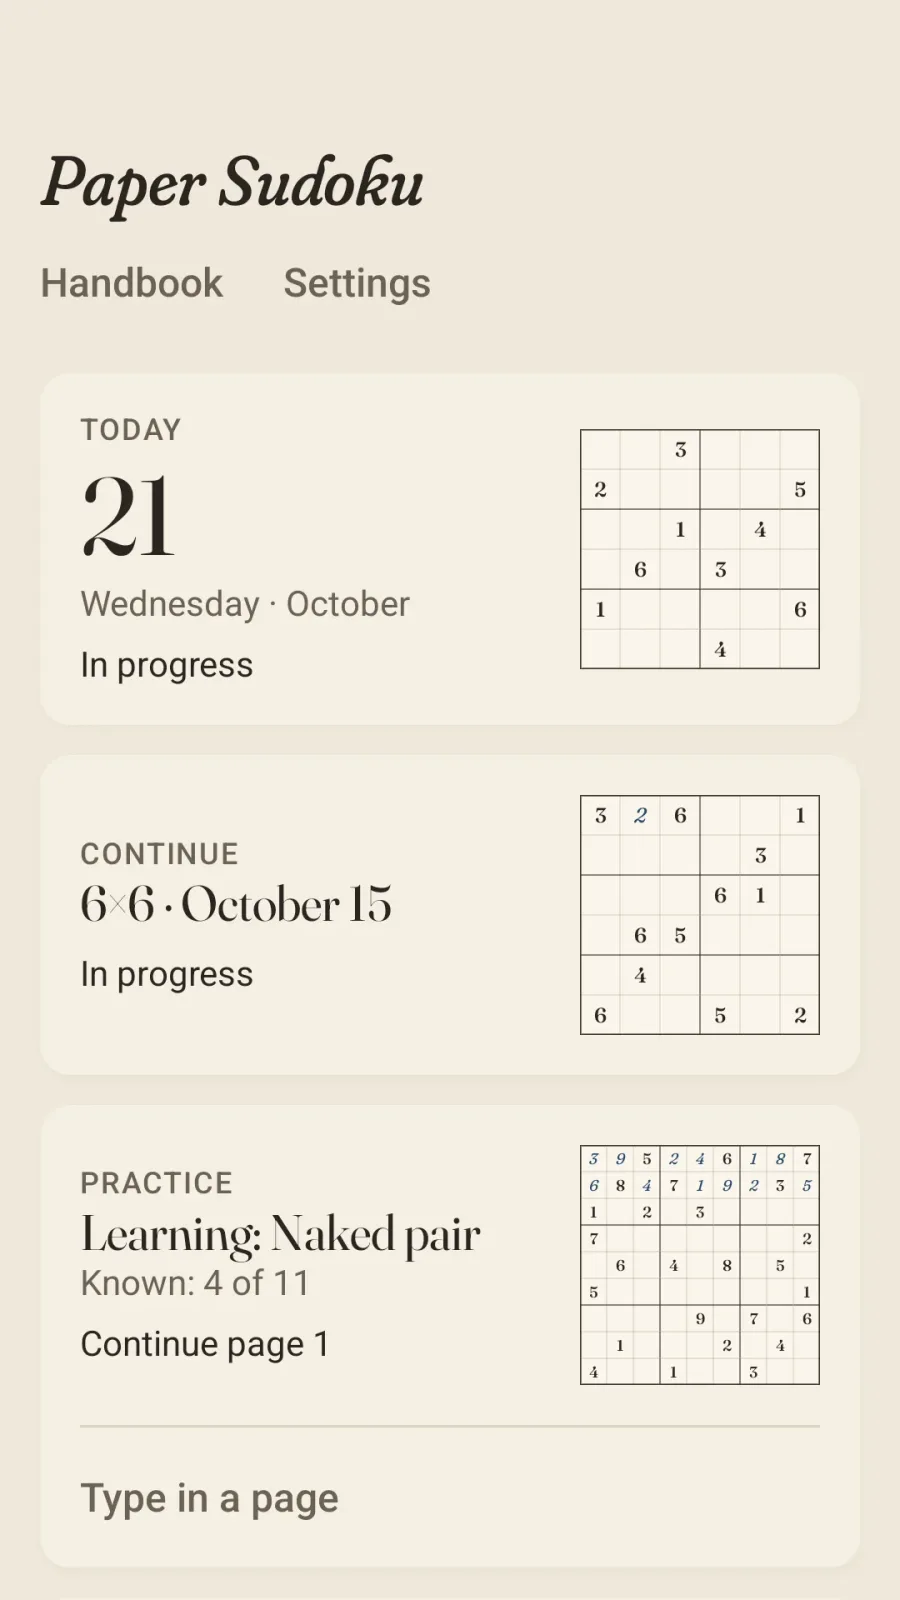
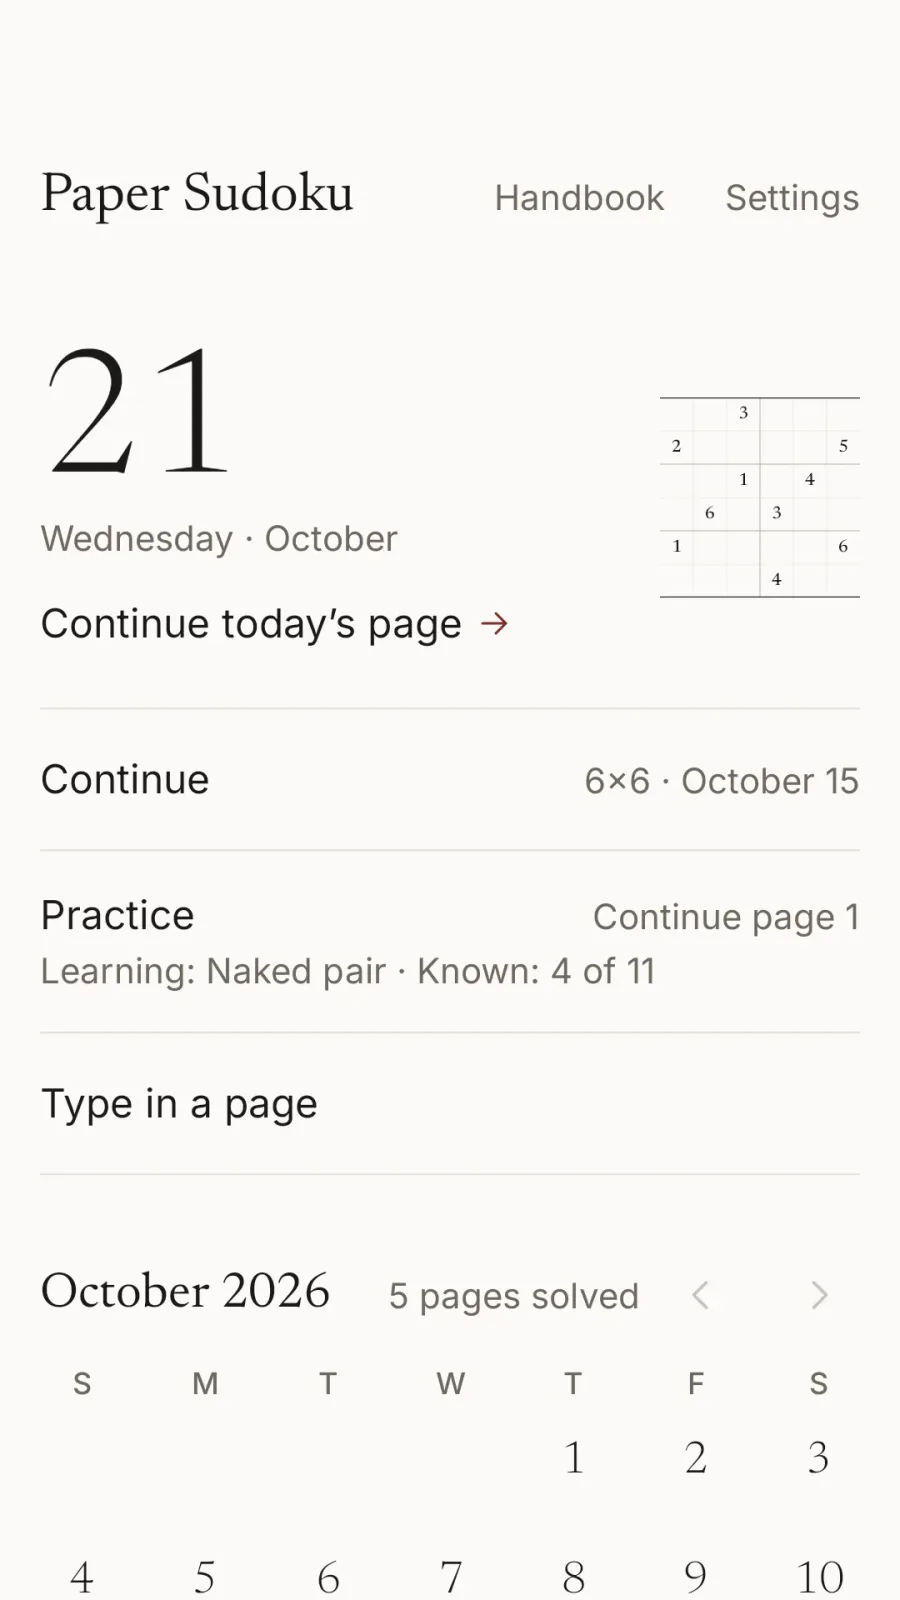
Paper Sudoku 14.0: meta line, plainer words, 14.0 captures (#219)
Facts from the app's CHANGELOG 14.0.0, README and store listing: the meta
line says 14.0, "your ink" becomes "your own digits", and the notebook's
alt text no longer counts stamped pages. The Coach, notebook and handbook
showcases are the 14.0 StoreScreenshotsTest captures (docs/store/) in
English and the 14.0 zh-* screenshot-matrix captures in Chinese, with
asOf v14.0.0-sideload; the FAQ answers were rechecked against 14.0. The
tablet hero stays the 13.0 capture: 14.0 has no tablet capture at Play's
size. The unreferenced solved-page image is removed.

Claude-Session: https://claude.ai/code/session_01JmaFxrCaTr7J8dy17sm4dB

diff --git a/src/content/products/paper-sudoku.ts b/src/content/products/paper-sudoku.ts
@@ -3,10 +3,13 @@ import { defineProduct } from "../schema";
 // The app's repository is private and it is not on Google Play yet, so there is
 // no download link and no `repo` for releases:sync: the version is written in
 // the meta line, and the primary action stays an unlinked "coming" label until
-// the Play listing exists. Facts: the app's README, CHANGELOG (13.0.0), PRIVACY.md
-// and docs/store-listing.md. Pictures: the app's own StoreScreenshotsTest at Play's
-// sizes, from the 13.0 captures (English UI only). No `asOf`: check ties it to a
-// releases.json entry, which a product without `repo` does not have.
+// the Play listing exists. Facts: the app's README, CHANGELOG (14.0.0), PRIVACY.md
+// and docs/store-listing.md. Pictures: the 14.0 captures of the app's own
+// StoreScreenshotsTest at Play's sizes (docs/store/, English UI), and for the
+// Chinese showcases its screenshot-matrix captures (app/src/androidTest/screenshots/
+// zh-*.png, 540×1200). The tablet hero stays the 13.0 capture: 14.0 did not redraw
+// docs/store/7-tablet.png (older than 13.0) and has no tablet capture at Play's size. `asOf`
+// names the tag a capture or answer describes; check compares it with the meta line.
 export default defineProduct({
   slug: "paper-sudoku",
   line: "games",
@@ -49,14 +52,14 @@ export default defineProduct({
         href: "/paper-sudoku/privacy/",
       },
     },
-    meta: "Android 8.0+ · 13.0 · Phones and tablets · No network permission",
+    meta: "Android 8.0+ · 14.0 · Phones and tablets · No network permission",
     visual: {
       kind: "screenshot",
       label: "Paper Sudoku",
       frame: "wide",
       image: {
         src: "/assets/paper-sudoku-tablet.webp",
-        alt: "Paper Sudoku on a tablet: a 9×9 practice page on the left with printed digits, blue ink and pencil marks; on the right the page title, the line “Tap cells to write 4. Tap 4 again to put it down.”, Undo, Pencil and Coach, and the digit keys with 4 picked up",
+        alt: "Paper Sudoku on a tablet: a 9×9 practice page on the left with printed digits, digits written in blue and pencil marks; on the right the page title, the line “Tap cells to write 4. Tap 4 again to put it down.”, Undo, Pencil and Coach, and the digit keys with 4 picked up",
         width: 1080,
         height: 608,
       },
@@ -66,40 +69,40 @@ export default defineProduct({
     showcases: [
       {
         src: "/assets/paper-sudoku-coach.webp",
-        alt: "A 6×6 daily page for Wednesday, October 21: the Coach has outlined the top-right box in terracotta, and its note above the tools reads “Hidden single. Look at the top-right box.”",
+        alt: "A 6×6 daily page for Wednesday, October 21: the Coach has outlined the top-right box in oxblood, and its note above the tools reads “Hidden single. Look at the top-right box.”",
         width: 1080,
         height: 1920,
         title: "The Coach writes in the margin.",
         body: "Look, then Why, and the answer only if you ask.",
-        caption: "Screenshot test, 13.0",
-        asOf: "v13.0.0-sideload",
+        caption: "Screenshot test, 14.0",
+        asOf: "v14.0.0-sideload",
       },
       {
         src: "/assets/paper-sudoku-notebook.webp",
-        alt: "The notebook: Today, the 21st, in progress; a 6×6 page from October 15 to continue; and Practice, “Learning: Naked pair · Known: 4 of 11”, each card with a thumbnail of its page",
+        alt: "The notebook: today’s date, 21, set large beside a thumbnail of its page and “Continue today’s page”; then rows for Continue (a 6×6 from October 15), Practice (“Learning: Naked pair · Known: 4 of 11”) and Type in a page, divided by hairlines; below, the October 2026 calendar, 5 pages solved",
         width: 1080,
         height: 1920,
         title: "Every day stays in the notebook.",
         body: "Today’s page is on top: a 6×6 on weekdays, a 9×9 at the weekend.",
-        caption: "Screenshot test, 13.0",
-        asOf: "v13.0.0-sideload",
+        caption: "Screenshot test, 14.0",
+        asOf: "v14.0.0-sideload",
       },
       {
         src: "/assets/paper-sudoku-handbook.webp",
-        alt: "The handbook’s X-Wing page, 7 of 11: a 9×9 example with two rows and two columns outlined in terracotta, crossed-out candidates, and “Seen” under the board",
+        alt: "The handbook’s X-Wing page, 7 of 11: a 9×9 example with two rows and two columns outlined in oxblood, crossed-out candidates, and “Seen” under the board",
         width: 1080,
         height: 1920,
         title: "A handbook that teaches.",
         body: "Every technique with a worked example from a real page, drawn the way the Coach draws it, and how well you know it: seen, practised, known.",
-        caption: "Screenshot test, 13.0",
-        asOf: "v13.0.0-sideload",
+        caption: "Screenshot test, 14.0",
+        asOf: "v14.0.0-sideload",
       },
     ],
     sections: [
       {
         kind: "cards",
         id: "features",
-        label: "Printed digits, your ink, pencil notes.",
+        label: "Printed digits, your own digits, pencil notes.",
         items: [
           { title: "A path that knows you", body: "9×9 pages that get harder after three solved unaided." },
           { title: "Pages of your own", body: "Type in a puzzle from a book; it is checked and coached." },
@@ -127,7 +130,7 @@ export default defineProduct({
           {
             title: "What does it need?",
             body: "Android 8.0 or later, on a phone, a tablet or a foldable. On a wide screen the notebook and the open page sit side by side. It works offline.",
-            asOf: "v13.0.0-sideload",
+            asOf: "v14.0.0-sideload",
           },
           {
             title: "Where can I get it?",
@@ -136,17 +139,17 @@ export default defineProduct({
           {
             title: "Will a new build update the one I have?",
             body: "From 9.0, sideload builds can be signed with one fixed key, so later builds update in place. Moving from an earlier build needs one last uninstall.",
-            asOf: "v13.0.0-sideload",
+            asOf: "v14.0.0-sideload",
           },
           {
             title: "Which languages does it speak?",
             body: "English, Simplified Chinese and Traditional Chinese. On Android 13 and later, the app’s language can be set in its Settings.",
-            asOf: "v13.0.0-sideload",
+            asOf: "v14.0.0-sideload",
           },
           {
             title: "Does it work with TalkBack and a keyboard?",
             body: "Yes. With TalkBack each cell can be written or erased from the cell itself, and the keys come straight after the board; a hardware keyboard writes digits too.",
-            asOf: "v13.0.0-sideload",
+            asOf: "v14.0.0-sideload",
           },
         ],
       },
@@ -180,14 +183,14 @@ export default defineProduct({
         href: "/zh/paper-sudoku/privacy/",
       },
     },
-    meta: "Android 8.0+ · 13.0 · 手机与平板 · 不申请联网权限",
+    meta: "Android 8.0+ · 14.0 · 手机与平板 · 不申请联网权限",
     visual: {
       kind: "screenshot",
       label: "纸上数独",
       frame: "wide",
       image: {
         src: "/assets/paper-sudoku-tablet.webp",
-        alt: "纸上数独在平板上（英文界面）：左边是一页 9×9 练习，有印刷数字、蓝色笔迹和铅笔标记；右边是页面标题、提示“点格子写 4，再点 4 放下”、撤销、铅笔和教练按钮，以及选中 4 的数字键",
+        alt: "纸上数独在平板上（英文界面）：左边是一页 9×9 练习，有印刷数字、用蓝色写下的数字和铅笔标记；右边是页面标题、提示“点格子写 4，再点 4 放下”、撤销、铅笔和教练按钮，以及选中 4 的数字键",
         width: 1080,
         height: 608,
       },
@@ -197,40 +200,40 @@ export default defineProduct({
     showcases: [
       {
         src: "/assets/paper-sudoku-coach-zh.webp",
-        alt: "10 月 21 日星期三的 6×6 每日一页：教练用赭红色框出右上宫，工具上方的提示写着“隐性唯一 · 看看右上宫”，说明 3 在右上宫只能放在一格，旁边是“看答案”",
+        alt: "10 月 21 日星期三的 6×6 每日一页：教练用暗红色框出右上宫，工具上方的提示写着“隐性唯一 · 看看右上宫”，说明 3 在右上宫只能放在一格，下面是“看答案”",
         width: 540,
         height: 1200,
         title: "教练在页边写字",
         body: "先说看哪里，再说为什么，你要了才给答案。",
-        caption: "截图测试 · 13.0",
-        asOf: "v13.0.0-sideload",
+        caption: "截图测试 · 14.0",
+        asOf: "v14.0.0-sideload",
       },
       {
         src: "/assets/paper-sudoku-notebook-zh.webp",
-        alt: "数独本首页：今天 21 日，进行中；接着做 10 月 15 日的 6×6；练习卡写着“正在学：显性数对，已掌握 4 个，共 11 个”；下面是“抄一页题目”和 2026 年 10 月的日历，已盖章 5 页",
+        alt: "数独本首页：大字的今天 21 日，旁边是这一页的缩略图和“接着做今天这一页”；细线隔开的几行：接着做 10 月 15 日的 6×6，练习“正在学：显性数对 · 已掌握 4 个，共 11 个”，抄一页题目；下面是 2026 年 10 月的日历，已完成 5 页",
         width: 540,
         height: 1200,
         title: "每一天都留在本子里",
         body: "最上面是今天这一页：工作日 6×6，周末 9×9。",
-        caption: "截图测试 · 13.0",
-        asOf: "v13.0.0-sideload",
+        caption: "截图测试 · 14.0",
+        asOf: "v14.0.0-sideload",
       },
       {
         src: "/assets/paper-sudoku-handbook-zh.webp",
-        alt: "技巧手册第 7 页（共 11 页）“X 翼”：一道 9×9 例题，第 3、7 列和第 2、8 行用赭红色框出，划掉了两行上多余的 2，盘下标着“见过”和例题讲解",
+        alt: "技巧手册第 7 页（共 11 页）“X 翼”：一道 9×9 例题，第 3、7 列和第 2、8 行用暗红色框出，划掉了两行上多余的 2，盘下标着“见过”和例题讲解",
         width: 540,
         height: 1200,
         title: "一本会教的手册",
         body: "每种技巧配一道真实例题，画法和教练一样，并标出你对它的掌握：见过、练过、掌握。",
-        caption: "截图测试 · 13.0",
-        asOf: "v13.0.0-sideload",
+        caption: "截图测试 · 14.0",
+        asOf: "v14.0.0-sideload",
       },
     ],
     sections: [
       {
         kind: "cards",
         id: "features",
-        label: "印刷数字、你的笔迹和铅笔标记",
+        label: "印刷数字、你写的数字和铅笔标记",
         items: [
           { title: "认得你的练习", body: "一叠 9×9 练习页，不看答案连做三页之后就变难一些。" },
           { title: "自己的题", body: "把书报上的题输进来，检查、评级，教练照常帮忙。" },
@@ -258,7 +261,7 @@ export default defineProduct({
           {
             title: "需要什么设备？",
             body: "Android 8.0 或更高版本的手机、平板或折叠屏。宽屏上，数独本和打开的那一页并排显示。离线也能用。",
-            asOf: "v13.0.0-sideload",
+            asOf: "v14.0.0-sideload",
           },
           {
             title: "在哪里下载？",
@@ -267,17 +270,17 @@ export default defineProduct({
           {
             title: "新版本能直接覆盖安装吗？",
             body: "从 9.0 起，侧载版可以用同一把固定密钥签名，之后的版本能直接覆盖安装。从更早的版本升级，需要最后卸载一次。",
-            asOf: "v13.0.0-sideload",
+            asOf: "v14.0.0-sideload",
           },
           {
             title: "支持哪些语言？",
             body: "英文、简体中文和繁体中文。Android 13 及以上可以在应用的设置里单独选择语言。",
-            asOf: "v13.0.0-sideload",
+            asOf: "v14.0.0-sideload",
           },
           {
             title: "能用 TalkBack 和键盘吗？",
             body: "能。开启 TalkBack 时，每一格都可以在格子上直接写入或擦除，数字键紧跟在棋盘之后；实体键盘也可以输入数字。",
-            asOf: "v13.0.0-sideload",
+            asOf: "v14.0.0-sideload",
           },
         ],
       },
